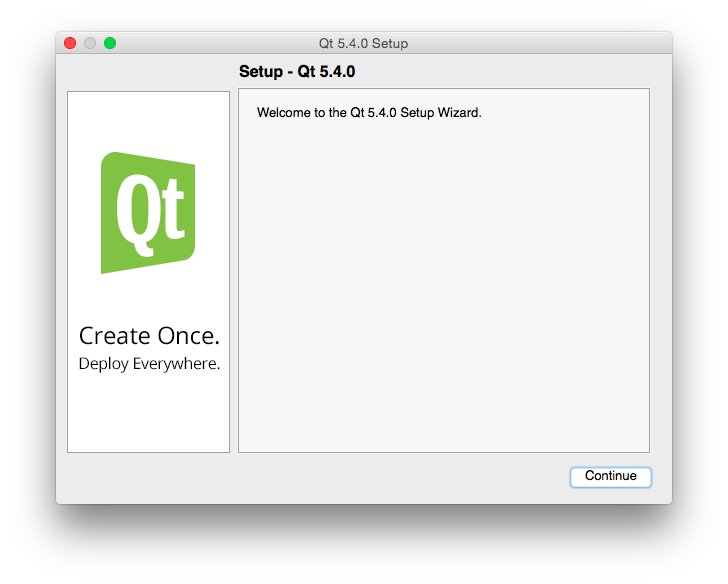
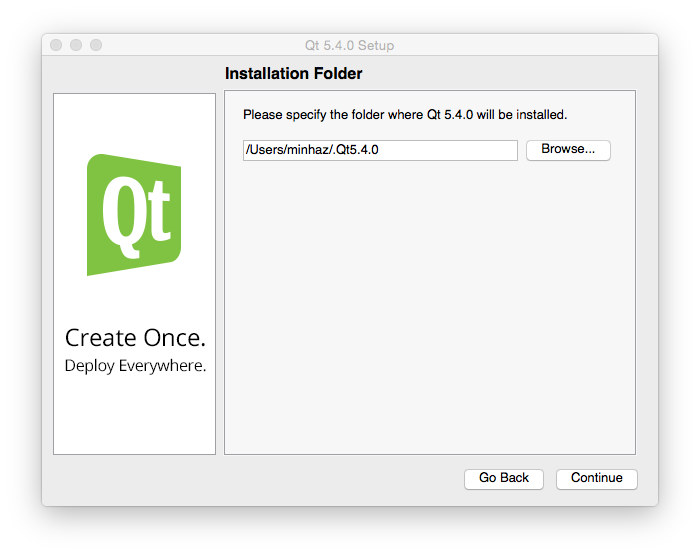
Configure guide

Changed region(s): [[0.06, 0.0612, 0.96, 0.9173], [0.12, 0.2446, 0.27, 0.5198], [0.75, 0.2446, 0.84, 0.2752]]

diff --git a/qt-install/qt-install-mac.md b/qt-install/qt-install-mac.md
@@ -1,0 +1,43 @@
+# ম্যাকে কিউট ইন্সটল করা
+
+ম্যাকের জন্য যেকোন এপ্লিকেশন ইন্সটল করা খুবই সহজ হলেও কিউট ইন্সটল করা বেশ কঠিন। ম্যাকের জন্য আমরা `qt-opensource-mac-x64-clang-5.4.0.dmg` ফাইলটি ডাউনলোড করে ব্যাবহার করবো।
+
+প্রথমেই যা করতে হবে তা হল `Xcode Command Line Tools for Mac OS X` ডাউনলোড করতে হবে। কারণ আমরা যে কিউট ভার্শনটি ডাউনলোড করেছি সেটা দিয়ে ডেভলপ করতে হলে `Clang` কম্পাইলার দরকার।
+
+ডাউনলোড করার পর সেটা ইন্সটল করতে হবে। ইন্সটলের পর অবশ্যই `XCode Developer License Agreement` একসেপ্ট করতে হবে। এই কাজটা দুভাবে করা যেতে পারে।
+
+* আপনার ম্যাকে `XCode` ইন্সটল করা থাকলে সেটা রান করান। শুরুতেই লাইসেন্স এগ্রিমেন্ট ডায়ালগ আসবে এবং এডমিন পাসওয়ার্ড দিয়ে লাইসেন্স একসেপ্ট করে নিতে হবে।
+* `sudo xcodebuild -license` কমান্ডটি দিয়ে স্ক্রল করতে থাকুন। কনসোলের শেষে পৌছালে লেখার অপশন আসবে, সেখানে `agree` লিখে রিটার্ন চাপুন।
+
+ব্যাস হয়ে গেল। `Xcode Command Line Tools for Mac OS X` কাজ করছে কিনা চেক করার জন্য টার্মিনাল খুলে `clang++` কমান্ডটি লিখে রিটার্ন চাপুন। যদি নিচের মত দেখায় তাহলে বুঝবেন `clang++` টুলটি কিউট ক্রিয়েটরের সাথে ব্যাবহারের জন্য রেডি।
+
+```
+minhaz$ clang++
+clang: error: no input files
+```
+
+এবার `qt-opensource-mac-x64-clang-5.4.0.dmg` ফাইলটি ডাবল ক্লিক করে মাউন্ট করুন। নতুন আসা ভলিউম ওপেন করলে নিচের মত ইন্সটলার আসবে।
+
+![Install Qt on Mac 1](mac/mac1.png)
+
+ইন্সটলারে ডাবল ক্লিক করলে নিচের মত উইন্ডো আসবে। সেখানে `Continue` চাপতে হবে।
+
+![Install Qt on Mac 2](mac/mac2.png)
+
+এরপর ইন্সটল করার পাথ দিতে হবে। ইন্সটল করার ডিরেক্টরী ফাইন্ডার থেকে লুকিয়ে রাখতে চাইলে ডিরেক্টরীর নামের আগে একটি ডট (যেমন `/Users/minhaz/.Qt5.4.0`) ব্যাবহার করা যেতে পারে। কেননা ইন্সটল করার পর ওই ডিরেক্টরী থেকে কোন ফাইল ভুলবশত মুছে গেলে সমস্যা তৈরী হবে।
+
+![Install Qt on Mac 3](mac/mac3.png)
+
+এরপর কম্পোনেন্টের লিস্ট আসবে। সেখান থেকে দরকারী কম্পোনেন্ট সিলেক্ট করতে হবে। চাইলে `Source Components` ইন্সটল করতে পারেন। তবে স্পেস কম থাকলে স্কিপ করে যেতে পারেন। কিউট ক্রিয়েটর আইডিই যদি আলাদা করে ডাউনলোড করা থাকে তবে এইখানে আনচেক করে দিতে পারেন।
+
+![Install Qt on Mac 4](mac/mac4.png)
+
+এরপর লাইসেন্স একসেপ্ট করার পর কনফার্ম করলে আপনার পিসিতে কিউট লাইব্রেরী ও কিউট ক্রিয়েটর আইডিই ইন্সটল হওয়া শুরু হবে।
+
+![Install Qt on Mac 5](mac/mac5.png)
+
+ইন্সটল শেষে কিউট ক্রিয়েটর রান করানোর জন্য প্রম্পট করবে। `Done` চাপলে ইন্সটলার বন্ধ হয়ে যাবে। এখন আপনি ভলিউমটি `Eject` করতে পারেন।
+
+![Install Qt on Mac 6](mac/mac6.png)
+
+রান করানোর পর `Qt Creator` এপটি ডকে পিন করে রাখতে পারেন। সবকিছু ঠিকমত শেষ হওয়ার অর্থ আপনি ম্যাকে কিউট ডেভলপমেন্ট শুরু করার জন্য প্রস্তুত।
